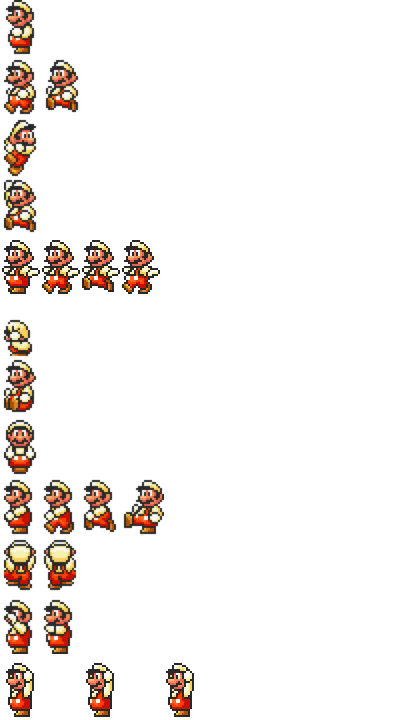
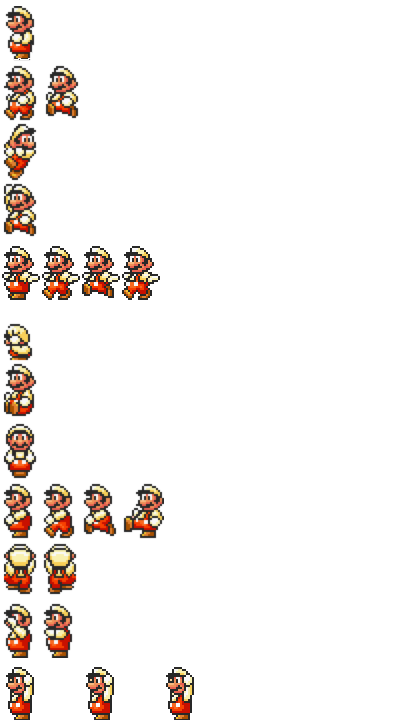
211118_0217
1. 캐릭터 변신 구현2
( 변신 애니메이션, 변신State 등 )
2. 캐릭터 리소스 픽셀조정

diff --git a/Term_project(temp)/player.py b/Term_project(temp)/player.py
@@ -82,7 +82,8 @@ RIGHT_DOWN, LEFT_DOWN, RIGHT_UP, LEFT_UP\
     ,UP_DOWN, DOWN_DOWN, UP_UP, DOWN_UP\
     ,SHIFT_DOWN, SHIFT_UP\
     ,SPACE\
-    ,FALLING_EVENT, LANDING_EVENT, LANDING_RUN_EVENT, LANDING_DASH_EVENT = range(15)
+    ,FALLING_EVENT, LANDING_EVENT, LANDING_RUN_EVENT, LANDING_DASH_EVENT\
+    ,TRANSLATE_EVENT, TRANS2IDLE_EVENT, TRANS2RUN_EVENT, TRANS2DASH_EVENT, TRANS2JUMP = range(20)
 
 key_event_table = {
     (SDL_KEYDOWN, SDLK_RIGHT): RIGHT_DOWN,
@@ -157,8 +158,8 @@ class IdleState:
 
             checkCount += 1
 
-        # if not collipse:
-        #     player.add_event(FALLING_EVENT)
+        if not collipse:
+            player.add_event(FALLING_EVENT)
 
     def draw(player):
         player.image.clip_draw(int(player.frame) * player.frameX, player.imageH, player.frameX, player.frameY
@@ -340,25 +341,25 @@ class DashState:
             if checkCount == 0:
                 for box in Map_Box.boxes:
                     if collideCheck(player, box) == "bottom":
-                        player.y = box.y + box.frameY  # 발판 위로 올림
+                        player.y = box.y + box.frameY/2 + player.frameY/2  # 발판 위로 올림
                         collipse = True
                         break
             elif checkCount == 1:
                 for brick in Map_Brick.bricks:
                     if collideCheck(player, brick) == "bottom":
-                        player.y = brick.y + brick.frameY  # 발판 위로 올림
+                        player.y = brick.y + brick.frameY/2 + player.frameY/2  # 발판 위로 올림
                         collipse = True
                         break
             elif checkCount == 2:
                 for pipe in Map_Pipe.pipes:
                     if collideCheck(player, pipe) == "bottom":
-                        player.y = pipe.y + pipe.frameY  # 발판 위로 올림
+                        player.y = pipe.y + pipe.frameY/2 + player.frameY/2  # 발판 위로 올림
                         collipse = True
                         break
             elif checkCount == 3:
                 for tile in Map_Tile.tiles:
                     if collideCheck(player, tile) == "bottom":
-                        player.y = tile.y + tile.frameY  # 발판 위로 올림
+                        player.y = tile.y + tile.frameY/2 + player.frameY/2  # 발판 위로 올림
                         collipse = True
                         break
 
@@ -518,6 +519,11 @@ class JumpState:
                                 game_world.add_object(newMush, 1)
                             elif box.itemValue == boxType.flower:
                                 print('꽃')#
+                                newFlower = Item_TransForm.TransformItem()
+                                newFlower.x, newFlower.y = box.x, box.y + box.frameY
+                                newFlower.itemValue = transitem_Value.Fireflower
+                                Item_TransForm.transItems.append(newFlower)
+                                game_world.add_object(newFlower, 1)
                             # Box를 사용한 상태로 변경
                             box.isUsed = True
 
@@ -772,49 +778,96 @@ class GroundpoundState:
                                player.frameX, player.frameY, player.x - player.scrollX, player.y)
 
 
+class TranslateState:
+    def enter(player, event):
+        player.frame = 0  # IdleState는 애니메이션이 없음.
+
+        if event == SHIFT_UP:                       # 변신 도중 SHIFT키를 떼었을 때
+            player.isDash = False
+            player.prevState = "RunState"
+
+        if event == LEFT_UP or event == RIGHT_UP:   # 변신 도중 왼쪽or오른쪽 키를 떼었을 때
+            player.isMovingInAir = False
+            player.prevState = "IdleState"
+
+
+    def exit(player, event):
+        if event == TRANS2IDLE_EVENT or event == TRANS2RUN_EVENT or event == TRANS2DASH_EVENT:
+            player.prevState = None
+
+    def do(player):
+        player.frame = (player.frame + FRAMES_PER_ACTION * ACTION_PER_TIME * game_framework.frame_time) % 6
+        if player.frame >= 5:
+            if player.prevState == "RunState":
+                player.add_event(TRANS2RUN_EVENT)
+            elif player.prevState == "DashState":
+                player.add_event(TRANS2DASH_EVENT)
+            else:
+                player.add_event(TRANS2IDLE_EVENT)
+
+
+    def draw(player):
+        player.image.clip_draw(int(player.frame) * player.frameX, 0, player.frameX, player.frameY
+                               , player.x - player.scrollX, player.y)
+
+
 next_state_table = {
     IdleState: {RIGHT_DOWN: RunState, LEFT_DOWN: RunState, RIGHT_UP: IdleState, LEFT_UP: IdleState
         , UP_DOWN: JumpState, UP_UP: JumpState, DOWN_DOWN: DownState, DOWN_UP: IdleState
         , SHIFT_DOWN: IdleState, SHIFT_UP: IdleState
         , SPACE: IdleState
         , FALLING_EVENT: FallingState
-        , LANDING_EVENT: IdleState, LANDING_RUN_EVENT: RunState, LANDING_DASH_EVENT: DashState},
+        , LANDING_EVENT: IdleState, LANDING_RUN_EVENT: RunState, LANDING_DASH_EVENT: DashState
+        , TRANSLATE_EVENT: TranslateState},
     RunState: {RIGHT_DOWN: IdleState, LEFT_DOWN: IdleState, RIGHT_UP: IdleState, LEFT_UP: IdleState
         , UP_DOWN: JumpState, UP_UP: JumpState, DOWN_DOWN: DownState, DOWN_UP: IdleState
         , SHIFT_DOWN: DashState, SHIFT_UP: RunState
         , SPACE: RunState
         , FALLING_EVENT: FallingState
-        , LANDING_EVENT: IdleState, LANDING_RUN_EVENT: RunState, LANDING_DASH_EVENT: DashState},
+        , LANDING_EVENT: IdleState, LANDING_RUN_EVENT: RunState, LANDING_DASH_EVENT: DashState
+        , TRANSLATE_EVENT: TranslateState},
     DashState: {RIGHT_DOWN: IdleState, LEFT_DOWN: IdleState, RIGHT_UP: IdleState, LEFT_UP: IdleState
         , UP_DOWN: JumpState, UP_UP: JumpState, DOWN_DOWN: DownState, DOWN_UP: IdleState
         , SHIFT_DOWN: RunState, SHIFT_UP: RunState
         , SPACE: DashState
         , FALLING_EVENT: FallingState
-        , LANDING_EVENT: IdleState, LANDING_RUN_EVENT: RunState, LANDING_DASH_EVENT: DashState},
+        , LANDING_EVENT: IdleState, LANDING_RUN_EVENT: RunState, LANDING_DASH_EVENT: DashState
+        , TRANSLATE_EVENT: TranslateState},
     DownState: {RIGHT_DOWN: DownState, LEFT_DOWN: DownState, RIGHT_UP: DownState, LEFT_UP: DownState
         , UP_DOWN: DownState, UP_UP: DownState, DOWN_DOWN: DownState, DOWN_UP: IdleState
         , SHIFT_DOWN: DownState, SHIFT_UP: DownState
         , SPACE: DownState
         , FALLING_EVENT: FallingState
-        , LANDING_EVENT: IdleState, LANDING_RUN_EVENT: RunState, LANDING_DASH_EVENT: DashState},
+        , LANDING_EVENT: IdleState, LANDING_RUN_EVENT: RunState, LANDING_DASH_EVENT: DashState
+        , TRANSLATE_EVENT: TranslateState},
     JumpState: {RIGHT_DOWN: JumpState, LEFT_DOWN: JumpState, RIGHT_UP: JumpState, LEFT_UP: JumpState
         , UP_DOWN: JumpState, UP_UP: JumpState, DOWN_DOWN: GroundpoundState, DOWN_UP: JumpState
         , SHIFT_DOWN: JumpState, SHIFT_UP: JumpState
         , SPACE: DownState
         , FALLING_EVENT: FallingState
-        , LANDING_EVENT: IdleState, LANDING_RUN_EVENT: RunState, LANDING_DASH_EVENT: DashState},
+        , LANDING_EVENT: IdleState, LANDING_RUN_EVENT: RunState, LANDING_DASH_EVENT: DashState
+        , TRANSLATE_EVENT: TranslateState},
     FallingState: {RIGHT_DOWN: FallingState, LEFT_DOWN: FallingState, RIGHT_UP: FallingState, LEFT_UP: FallingState
         , UP_DOWN: FallingState, UP_UP: FallingState, DOWN_DOWN: GroundpoundState, DOWN_UP: FallingState
         , SHIFT_DOWN: FallingState, SHIFT_UP: FallingState
         , SPACE: FallingState
         , FALLING_EVENT: FallingState
-        , LANDING_EVENT: IdleState, LANDING_RUN_EVENT: RunState, LANDING_DASH_EVENT: DashState},
+        , LANDING_EVENT: IdleState, LANDING_RUN_EVENT: RunState, LANDING_DASH_EVENT: DashState
+        , TRANSLATE_EVENT: TranslateState},
     GroundpoundState: {RIGHT_DOWN: GroundpoundState, LEFT_DOWN: GroundpoundState, RIGHT_UP: GroundpoundState, LEFT_UP: GroundpoundState
         , UP_DOWN: GroundpoundState, UP_UP: GroundpoundState, DOWN_DOWN: GroundpoundState, DOWN_UP: GroundpoundState
         , SHIFT_DOWN: GroundpoundState, SHIFT_UP: GroundpoundState
         , SPACE: GroundpoundState
         , FALLING_EVENT: FallingState
-        , LANDING_EVENT: IdleState, LANDING_RUN_EVENT: RunState, LANDING_DASH_EVENT: DashState}
+        , LANDING_EVENT: IdleState, LANDING_RUN_EVENT: RunState, LANDING_DASH_EVENT: DashState
+        , TRANSLATE_EVENT: TranslateState},
+    TranslateState: {RIGHT_DOWN: TranslateState, LEFT_DOWN: TranslateState, RIGHT_UP: TranslateState, LEFT_UP: TranslateState
+        , UP_DOWN: TranslateState, UP_UP: TranslateState, DOWN_DOWN: TranslateState, DOWN_UP: TranslateState
+        , SHIFT_DOWN: TranslateState, SHIFT_UP: TranslateState
+        , SPACE: TranslateState
+        , FALLING_EVENT: TranslateState
+        , LANDING_EVENT: TranslateState, LANDING_RUN_EVENT: TranslateState, LANDING_DASH_EVENT: TranslateState
+        , TRANSLATE_EVENT: IdleState, TRANS2IDLE_EVENT: IdleState, TRANS2RUN_EVENT: RunState, TRANS2DASH_EVENT: DashState, TRANS2JUMP: JumpState}
 }
 
 
@@ -839,6 +892,8 @@ class Player:
             self.image_FireR = load_image('Mario_fire.png')
 
         self.transform = P_Transform.T_Basic
+
+        self.prevState = None  # 이전상태의 이름
 
         self.dir = 1
         self.velocity = 0
@@ -905,30 +960,33 @@ class Player:
         # 변신 아이템 충돌
         for transItem in Item_TransForm.transItems:
             if not collideCheck(self, transItem) == None:
+                self.prevState = self.cur_state.__name__  # 이전상태의 이름을 저장해둔다.
+                if not self.cur_state == JumpState or self.cur_state == FallingState or self.cur_state == GroundpoundState: #버그방지용
+                    self.y += 15
                 # 충돌하면 캐릭터 상태변경
                 if transItem.itemValue == Item_TransForm.Value.Mushroom:
                     if self.transform < P_Transform.T_Super:
                         self.transform = P_Transform.T_Super
                         game_data.gameData.transform = P_Transform.T_Super
+
+                        # Frame Image Update
+                        self.frameX, self.frameY = 40, 60
+                        self.imageH = 660
+                        self.add_event(TRANSLATE_EVENT)
                 elif transItem.itemValue == Item_TransForm.Value.Fireflower:
                     if game_data.gameData.transform < P_Transform.T_Fire:
                         self.transform = P_Transform.T_Fire
                         game_data.gameData.transform = P_Transform.T_Fire
 
+                        # Frame Image Update
+                        self.frameX, self.frameY = 40, 60
+                        self.imageH = 660
+                        self.add_event(TRANSLATE_EVENT)
+
                 # 해당 충돌 아이템 삭제
                 Item_TransForm.transItems.remove(transItem)
                 game_world.remove_object(transItem)
-                self.y += 15
-                self.jump_startY +=100
                 break
-
-        # Frame Image Update
-        if self.transform == P_Transform.T_Basic:
-            self.frameX, self.frameY = 40, 30
-            self.imageH = 300
-        elif self.transform == P_Transform.T_Super or self.transform == P_Transform.T_Fire:
-            self.frameX, self.frameY = 40, 60
-            self.imageH = 660
 
 
 
